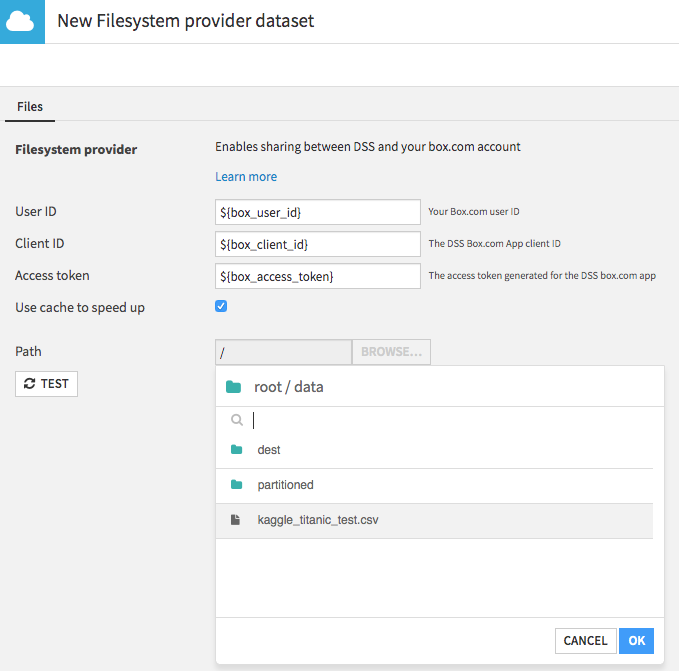
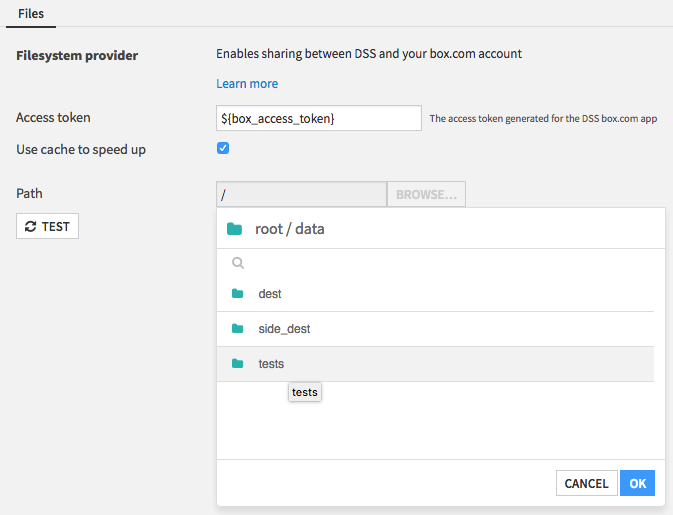
Removed unused connection parameters, doc updated accordingly

diff --git a/python-runnables/clean-box-com-cache/runnable.py b/python-runnables/clean-box-com-cache/runnable.py
@@ -1,5 +1,5 @@
 from dataiku.runnables import Runnable
-import os
+import os, hashlib
 
 class CleanCache(Runnable):
 
@@ -7,8 +7,8 @@ class CleanCache(Runnable):
         self.project_key = project_key
         self.config = config
         self.plugin_config = plugin_config
-        self.client_id = self.config.get("client_id")
-        self.cache_location = os.environ["DIP_HOME"] + '/caches/plugins/box-com/' + self.client_id
+        self.access_token = self.config.get("access_token")
+        self.cache_location = os.environ["DIP_HOME"] + '/caches/plugins/box-com/' + hashlib.sha1(self.access_token).hexdigest()
         
     def get_progress_target(self):
         return None

diff --git a/python-lib/cache_handler.py b/python-lib/cache_handler.py
@@ -4,9 +4,9 @@ from shutil import move
 class CacheHandler():
     def __init__(self, config):
         self.cache_enabled = config.get("cache_enabled")
-        self.client_id = config.get("client_id")
+        self.access_token = config.get("access_token")
         if self.cache_enabled:
-            self.cache_location = os.environ["DIP_HOME"] + '/caches/plugins/box-com/' + self.client_id
+            self.cache_location = os.environ["DIP_HOME"] + '/caches/plugins/box-com/' + hashlib.sha1(self.access_token).hexdigest()
             self.load_cache()
             self.uuid = uuid.uuid4()
             self.removed = []

diff --git a/python-fs-providers/box-com_box-com/fs-provider.py b/python-fs-providers/box-com_box-com/fs-provider.py
@@ -19,12 +19,10 @@ class BoxComFSProvider(FSProvider, Utils):
             root = root[1:]
         self.root = root
         self.root_lnt = self.get_normalized_path(root)
-        self.client_id = config.get("client_id")
-        self.client_secret = config.get("client_secret")
         self.access_token = config.get("access_token")
         auth = OAuth2(
-            client_id=self.client_id,
-            client_secret=self.client_secret,
+            client_id="",
+            client_secret="",
             access_token=self.access_token
         )
         self.client = Client(auth)

diff --git a/python-runnables/get-box-com-sharing-email/runnable.py b/python-runnables/get-box-com-sharing-email/runnable.py
@@ -8,13 +8,11 @@ class GetBoxSharingEmail(Runnable):
         self.config = config
         self.plugin_config = plugin_config
         
-        self.client_id = self.config.get("client_id")
-        self.client_secret = self.config.get("client_secret")
         self.access_token = self.config.get("access_token")
         
         auth = OAuth2(
-            client_id=self.client_id,
-            client_secret=self.client_secret,
+            client_id="",
+            client_secret="",
             access_token=self.access_token
         )
         self.client = Client(auth)

diff --git a/README.md b/README.md
@@ -33,12 +33,11 @@ In order to use the plugin, the administrator of the box.com account will have t
 
 3. Name your app.
 > People given access to this app will be able to access all files shared to it. Where access to dataset must be restricted to a given group, make and name a separate app for this purpose.
-4. From the App general panel, copy the *User ID*.
-5. From the App configuration panel, copy the *Client ID* and create and copy a secondary access token.
+4. From the App configuration panel, create and copy a secondary access token.
 
 ![](images/app_config.png)
 
-Once you have you User ID, Client ID and access token, you will be able to retrieve the app's sharing email address. To do so:
+Once you have the access token, you will be able to retrieve the app's sharing email address. To do so:
 1. Inside a DSS project, go to the **Macros** menu
 
 ![](images/macro_menu.png)
@@ -51,12 +50,10 @@ Once you have you User ID, Client ID and access token, you will be able to retri
 > To avoid filling in the connection details in every box.com dataset of your project, your can instead set them as project variables as :
 ```json
 {
-  "box_access_token": "1234abc...",
-  "box_client_id": "5678def...",
-  "box_user_id": "9876543210"
+  "box_access_token": "1234abc..."
 }
 ```
-4. Copy the email address returned in the array.
+4. Copy the email address returned.
 
 ![](images/sharing_email_address.png)
 
@@ -78,7 +75,7 @@ From the connector's *Settings > Files* panel, you should now be able to browser
 
 - Edit the `DATADIR/config/dip.properties` file and add the following key: `dku.datasets.external.no_connection.allowClear=true`
 - Share an empty directory with the box.com dss app. It is important that it does not contain data you want to keep: **the entire structure contained inside this directory can be deleted by the plugin**.
-- In the flow, create your target box.com dataset first, by selecting the box.com plugin in the dataset list.
+- In the flow, first create your target box.com dataset, by selecting the box.com plugin in the dataset list.
 - Browse to your target directory, name this new dataset and press **create**
 - If the following message appears : `An invalid argument has been encountered : Missing parameters for CSV` got to the dataset *Settings > Format / Preview* and set *Quoting style*
 
